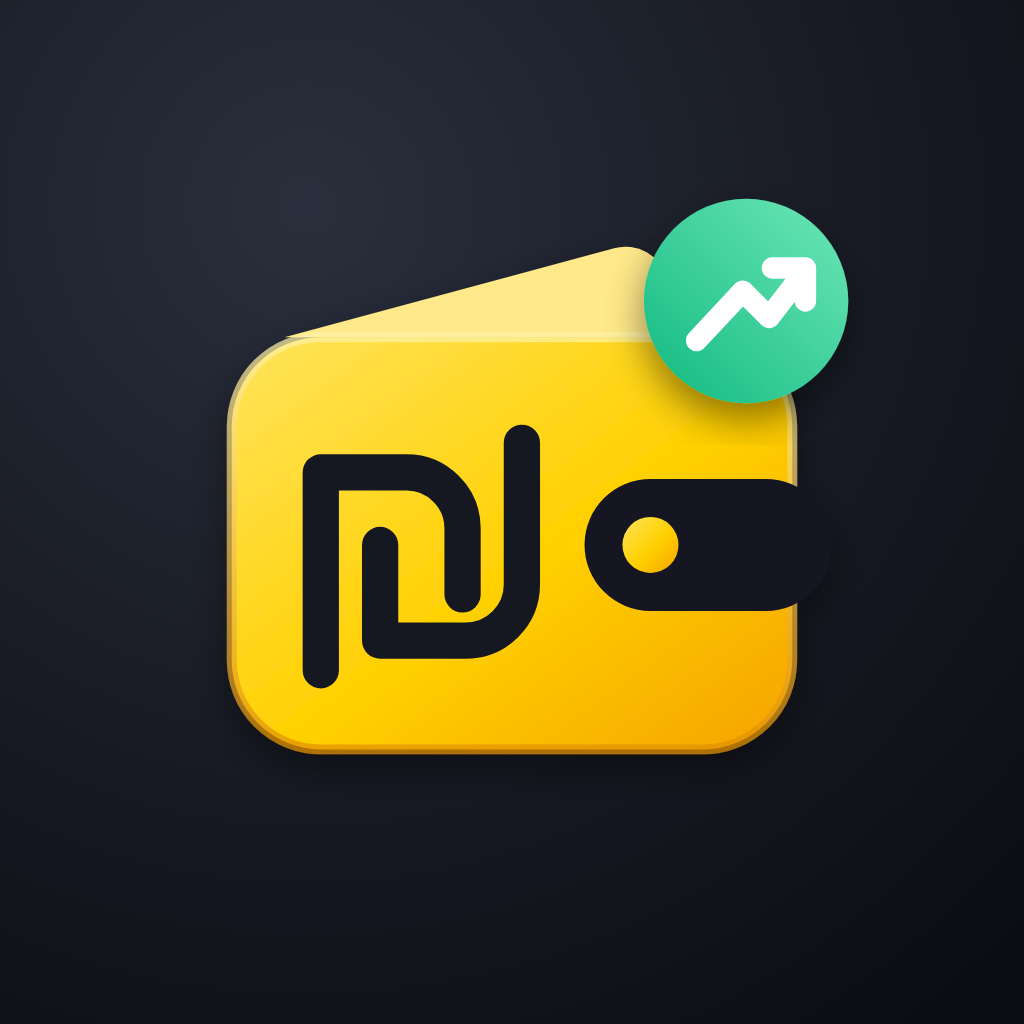
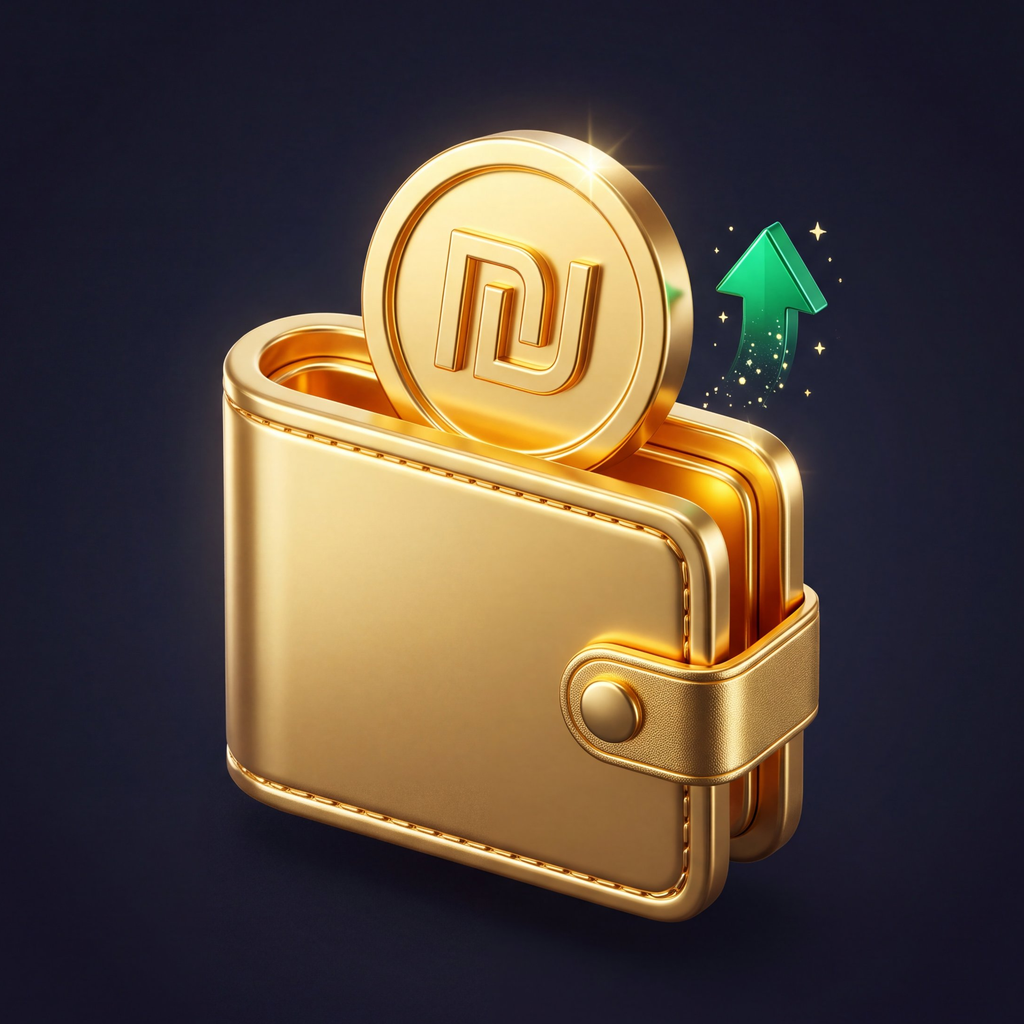
אייקון ולוגו חדשים: ארנק זהב עם מטבע שקל
Claude-Session: https://claude.ai/code/session_01GsZ1E5AAVKFvN4VozqZD87

diff --git a/index.html b/index.html
@@ -336,7 +336,7 @@ body.mode-simple .nav button svg{width:24px;height:24px}
 @media (max-width:370px){.tiles{grid-template-columns:repeat(2,minmax(0,1fr))}.qa span{width:52px;height:52px}}
 .lock{position:fixed;inset:0;z-index:100;background:radial-gradient(600px 400px at 50% 0%,rgba(255,212,0,.12),transparent 70%),#0f1117;display:grid;place-items:center;padding:calc(20px + env(safe-area-inset-top,0px)) 20px calc(20px + env(safe-area-inset-bottom,0px))}
 .lockin{display:flex;flex-direction:column;align-items:center;text-align:center;width:min(340px,100%)}
-.lgbox{background:radial-gradient(circle at 30% 20%,#2a2f3d,#0c0d12)!important;padding:4px;overflow:hidden}.lgbox svg.lgmark{width:100%!important;height:100%!important}
+.lgbox{background:#151324!important;padding:0!important;overflow:hidden}.lgbox img.lgimg{width:100%;height:100%;object-fit:cover;display:block}.lgbox svg.lgmark{width:100%!important;height:100%!important}
 .lockin .logo{width:64px;height:64px;border-radius:20px;display:grid;place-items:center;background:var(--brand);color:#111;margin-bottom:14px}.lockin .logo svg{width:32px;height:32px}
 .lockin h2{margin:0 0 4px;font-size:24px;font-weight:900;color:#fff}.lockin p{margin:0 0 18px}
 .pdots{display:flex;gap:14px;margin-bottom:26px}.pdots i{width:15px;height:15px;border-radius:50%;border:2px solid #6b7280}.pdots i.on{background:var(--brand);border-color:var(--brand)}
@@ -1808,7 +1808,7 @@ function overdraftHTML(compact){
     '<div class="sub" style="color:'+col+'">'+(used?L('בשימוש ')+money(used)+(lim?' ('+pct(u)+')':''):L('לא בשימוש — אתה בפלוס'))+L(' · פנוי למשיכה כולל המסגרת: ')+money(Math.max(0,b.amount+lim))+'</div></div>';
 }
 /* ---------- suggestions to the developer (anonymous: text only, no financial data) ---------- */
-var APP_VERSION='2026.11.05.1041',APP_REPO='leonidkon123-sketch/kesef-app',fbStatus={},fbDb=null;
+var APP_VERSION='2026.11.05.1112',APP_REPO='leonidkon123-sketch/kesef-app',fbStatus={},fbDb=null;
 var FB_TYPES=[['idea','💡','רעיון לשיפור'],['bug','🐞','משהו לא עובד'],['question','❓','שאלה']];
 var FB_STATUS={sent:'נשלח',local:'שמור — יישלח כשיהיה חיבור',seen:'התקבל ונקרא',planned:'אושר — ייכנס לעדכון',done:'בוצע ✓',declined:'לא יבוצע'};
 function fbItemStatus(f){var r=fbStatus[f.id];return r&&r.status?r.status:(f.synced?'sent':'local');}
@@ -2117,7 +2117,7 @@ function quizModal(){
 }
 
 /* ---------- phone layout: top bar, bottom tabs, "more" sheet ---------- */
-var LOGO_SVG='<svg xmlns="http://www.w3.org/2000/svg" viewBox="40 60 440 400" class="lgmark"><defs><linearGradient id="lgG" x1="0" y1="0" x2="1" y2="1"><stop offset="0" stop-color="#FFE45C"/><stop offset=".55" stop-color="#FFD000"/><stop offset="1" stop-color="#F5A300"/></linearGradient><linearGradient id="lgE" x1="0" y1="0" x2="0" y2="1"><stop offset="0" stop-color="#FFF3A6"/><stop offset="1" stop-color="#E08F00"/></linearGradient><linearGradient id="lgN" x1="0" y1="1" x2="1" y2="0"><stop offset="0" stop-color="#10B981"/><stop offset="1" stop-color="#6EE7B7"/></linearGradient><filter id="lgS" x="-20%" y="-20%" width="140%" height="140%"><feDropShadow dx="0" dy="10" stdDeviation="12" flood-color="#000" flood-opacity=".45"/></filter></defs><g filter="url(#lgS)"><rect x="86" y="150" width="340" height="250" rx="54" fill="url(#lgG)"/><path d="M118 150 L318 96 a26 26 0 0 1 32 18 l10 36 Z" fill="#FFE98A"/><rect x="86" y="150" width="340" height="250" rx="54" fill="none" stroke="url(#lgE)" stroke-width="6" opacity=".7"/><rect x="300" y="236" width="150" height="80" rx="40" fill="#151821"/><circle cx="340" cy="276" r="17" fill="url(#lgG)"/></g><g fill="none" stroke="#151821" stroke-width="22" stroke-linecap="round" stroke-linejoin="round"><path d="M140 352 V232 h52 a34 34 0 0 1 34 34 v40"/><path d="M262 214 v86 a34 34 0 0 1 -34 34 h-52 v-58"/></g><g filter="url(#lgS)"><circle cx="398" cy="128" r="62" fill="url(#lgN)"/><path d="M368 152 L396 122 L412 138 L432 112" fill="none" stroke="#fff" stroke-width="13" stroke-linecap="round" stroke-linejoin="round"/><path d="M414 108 h20 v20" fill="none" stroke="#fff" stroke-width="13" stroke-linecap="round" stroke-linejoin="round"/></g></svg>';
[1 lines of base64/hex data omitted]
 var TAB_COLOR={overview:'#ffd400',reports:'#60a5fa',debts:'#fb7185',loans:'#a78bfa',goals:'#34d399',expenses:'#fb923c',cards:'#2dd4bf',bank:'#f472b6',future:'#facc15',tips:'#fde047',career:'#c084fc',pension:'#38bdf8'};
 var IC_MORE='<circle cx="5" cy="12" r="1.6"/><circle cx="12" cy="12" r="1.6"/><circle cx="19" cy="12" r="1.6"/>';
 var TAB_SHORT={overview:'בית',expenses:'הוצאות',cards:'כרטיסים',bank:'בנק',debts:'חובות'};
@@ -3102,7 +3102,7 @@ render();
 })();
 </script>
 <script id="pwa">(function(){
-  var APPV='2026.11.05.1041',PAGES='https://leonidkon123-sketch.github.io/kesef-app/',REPO='leonidkon123-sketch/kesef-app';
+  var APPV='2026.11.05.1112',PAGES='https://leonidkon123-sketch.github.io/kesef-app/',REPO='leonidkon123-sketch/kesef-app';
   var lang=(function(){try{return localStorage.getItem('kesef-lang')||'he';}catch(e){return 'he';}})();
   var T={he:{ready:'עדכון חדש הותקן ✓',upd:'יש גרסה חדשה של התוכנה 🎉',now:'עדכן עכשיו',later:'אחר כך',apk:'עדכון חדש לאפליקציה זמין',dl:'להורדה',off:'אין אינטרנט — הכל עובד כרגיל, הנתונים נשמרים במכשיר'},
          en:{ready:'A new update was installed ✓',upd:'A new version of the app is ready 🎉',now:'Update now',later:'Later',apk:'A new app update is available',dl:'Download',off:'Offline — everything still works, data is saved on this device'},

diff --git a/sw.js b/sw.js
@@ -1,5 +1,5 @@
 /* הכסף שלי — offline support. The app shell is cached; market data is fetched fresh when online. */
-var CACHE='kesef-2026.11.05.1041';
+var CACHE='kesef-2026.11.05.1112';
 var SHELL=['./','index.html','manifest.webmanifest','icons/icon-192.png','icons/icon-512.png','icons/maskable-512.png','market.json','version.json'];
 self.addEventListener('install',function(e){e.waitUntil(caches.open(CACHE).then(function(c){return c.addAll(SHELL);}));});
 self.addEventListener('message',function(e){if(e.data==='skip')self.skipWaiting();});

diff --git a/loader.html b/loader.html
@@ -4,7 +4,7 @@
 <script>
 /* Starts the newest version of the app: a version downloaded automatically (if it is newer and started fine before), otherwise the one inside the APK. */
 (function(){
-  var NATIVE='2026.11.05.1041';window.KESEF_NATIVE=NATIVE;
+  var NATIVE='2026.11.05.1112';window.KESEF_NATIVE=NATIVE;
   var ls=window.localStorage,cv=null,html=null;
   try{cv=ls.getItem('kesef-live-ver');html=ls.getItem('kesef-live-html');}catch(e){}
   try{
